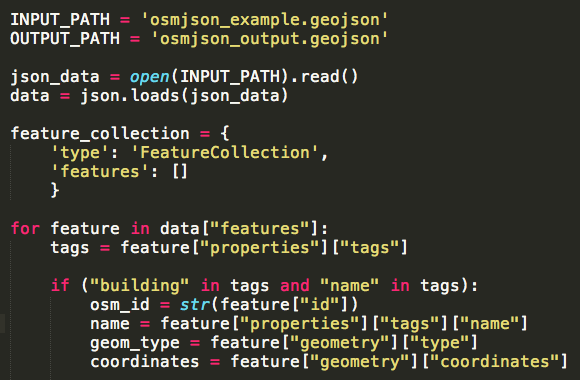
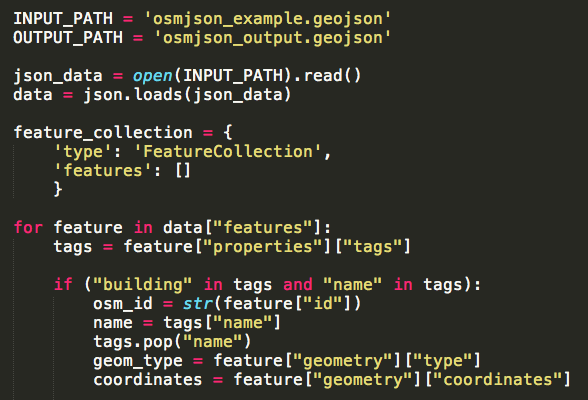
the rest

Changed region(s): [[0.0, 0.55, 0.9931, 0.9842], [0.0, 0.1737, 0.6207, 0.5211], [0.0, 0.0289, 0.6828, 0.1447]]

diff --git a/index.html b/index.html
@@ -103,7 +103,7 @@
   </head>
   <body>
     <!-- intro -->
-    <div><em>python</em> + geographic data = <em>BFFs</em></div>
+    <div><a href="http://pdxmele.com/python-geodata-bffs">python + geographic data = BFFs</a><br/>Mele Sax-Barnett</div>
     <div><img src="http://www.fantom-xp.com/wallpapers/15/Cat_and_dog_friends.jpg"><em>why?</em><br/><br/></div>
     <div><img src="img/map1.png">I <code>&lt;3</code> maps, but making them can be a pain</div>
     <div>the <em>worst</em> part is</div>
@@ -136,8 +136,22 @@
     </div>
     
     <!-- GeoJSON and Python dictionaries -->
-    <div>about <a href="http://geojson.org/">GeoJSON</a>:</br></br>* like JSON, but with geo</br>* easy to use for web mapping</br>* easy to parse with Python</div>
-    <div>all you need to do is <em>get it into a dictionary</em></div>
+    <div>about <a href="http://geojson.org/">GeoJSON</a>:</br></br>* JSON for geodata</br>* easy to use for web mapping</br>* easy to parse with Python</div>
+    <div>all you need to do is <code>treat it like a dictionary</code></div>
+    <div><em>example:</em><br/><a href="http://osm.org">OpenStreetMap</a> data to map-ready GeoJSON</div>
+    <div>1. download some data</br><img src="img/osm_start.png"></div>
+    <div>2. convert to <em>GeoJSON</em> with <a href="https://github.com/pdxmele/gwyw-osm/blob/master/converters.md">your tool of choice</a>, or you can parse the xml directly</div>
+    <div>3. process</br><img src="img/geojsoncode1.png"><br/></div>
+    <div>...<img src="img/geojsoncode2.png"></div>
+    <div><img src="img/osm_done.png">4. <code>enjoy!</code></div>
+    <div>because it's just a dictionary, you can also <code>create tests</code> for the data:<br/>* check for <em>required keys</em><br/>* check <em>the type</em> of each key's value<br/>* check <em>the structure</em><br/>* check for <em>valid geometry</em></div>
+    <div>this is important if your system expects <br/>a very particular format, while your data comes from <code>a variety of sources</code><br/><img src="img/ua_ss.png"></div>
 
+    <!-- Wrap it up -->
+    <div>finally, GIS software <code>&lt;3</code>s python</div>
+    <div>use it to script within the app, or to build custom tools and plugins</div>
+    <div><a href="http://resources.arcgis.com/en/communities/python/">ArcGIS</a><br/><img src="img/arcgis.png"></div>
+    <div><a href="http://www.qgis.org/en/docs/pyqgis_developer_cookbook/intro.html">QGIS</a><br/><img src="img/qgis.png"></div>
+    <div><code>thank you!</code><br/><br/>questions? <a href="https://twitter.com/pdxmele">@pdxmele</a> or file a ticket <a href="https://github.com/pdxmele/python-geodata-bffs">here</a></br>more resources here</a><br/>
   </body>
 </html>

diff --git a/geojson_example1.py b/geojson_example1.py
@@ -17,7 +17,8 @@ for feature in data["features"]:
 
     if ("building" in tags and "name" in tags):
         osm_id = str(feature["id"])
-        name = feature["properties"]["tags"]["name"]
+        name = tags["name"]
+        tags.pop("name")
         geom_type = feature["geometry"]["type"]
         coordinates = feature["geometry"]["coordinates"]
 
